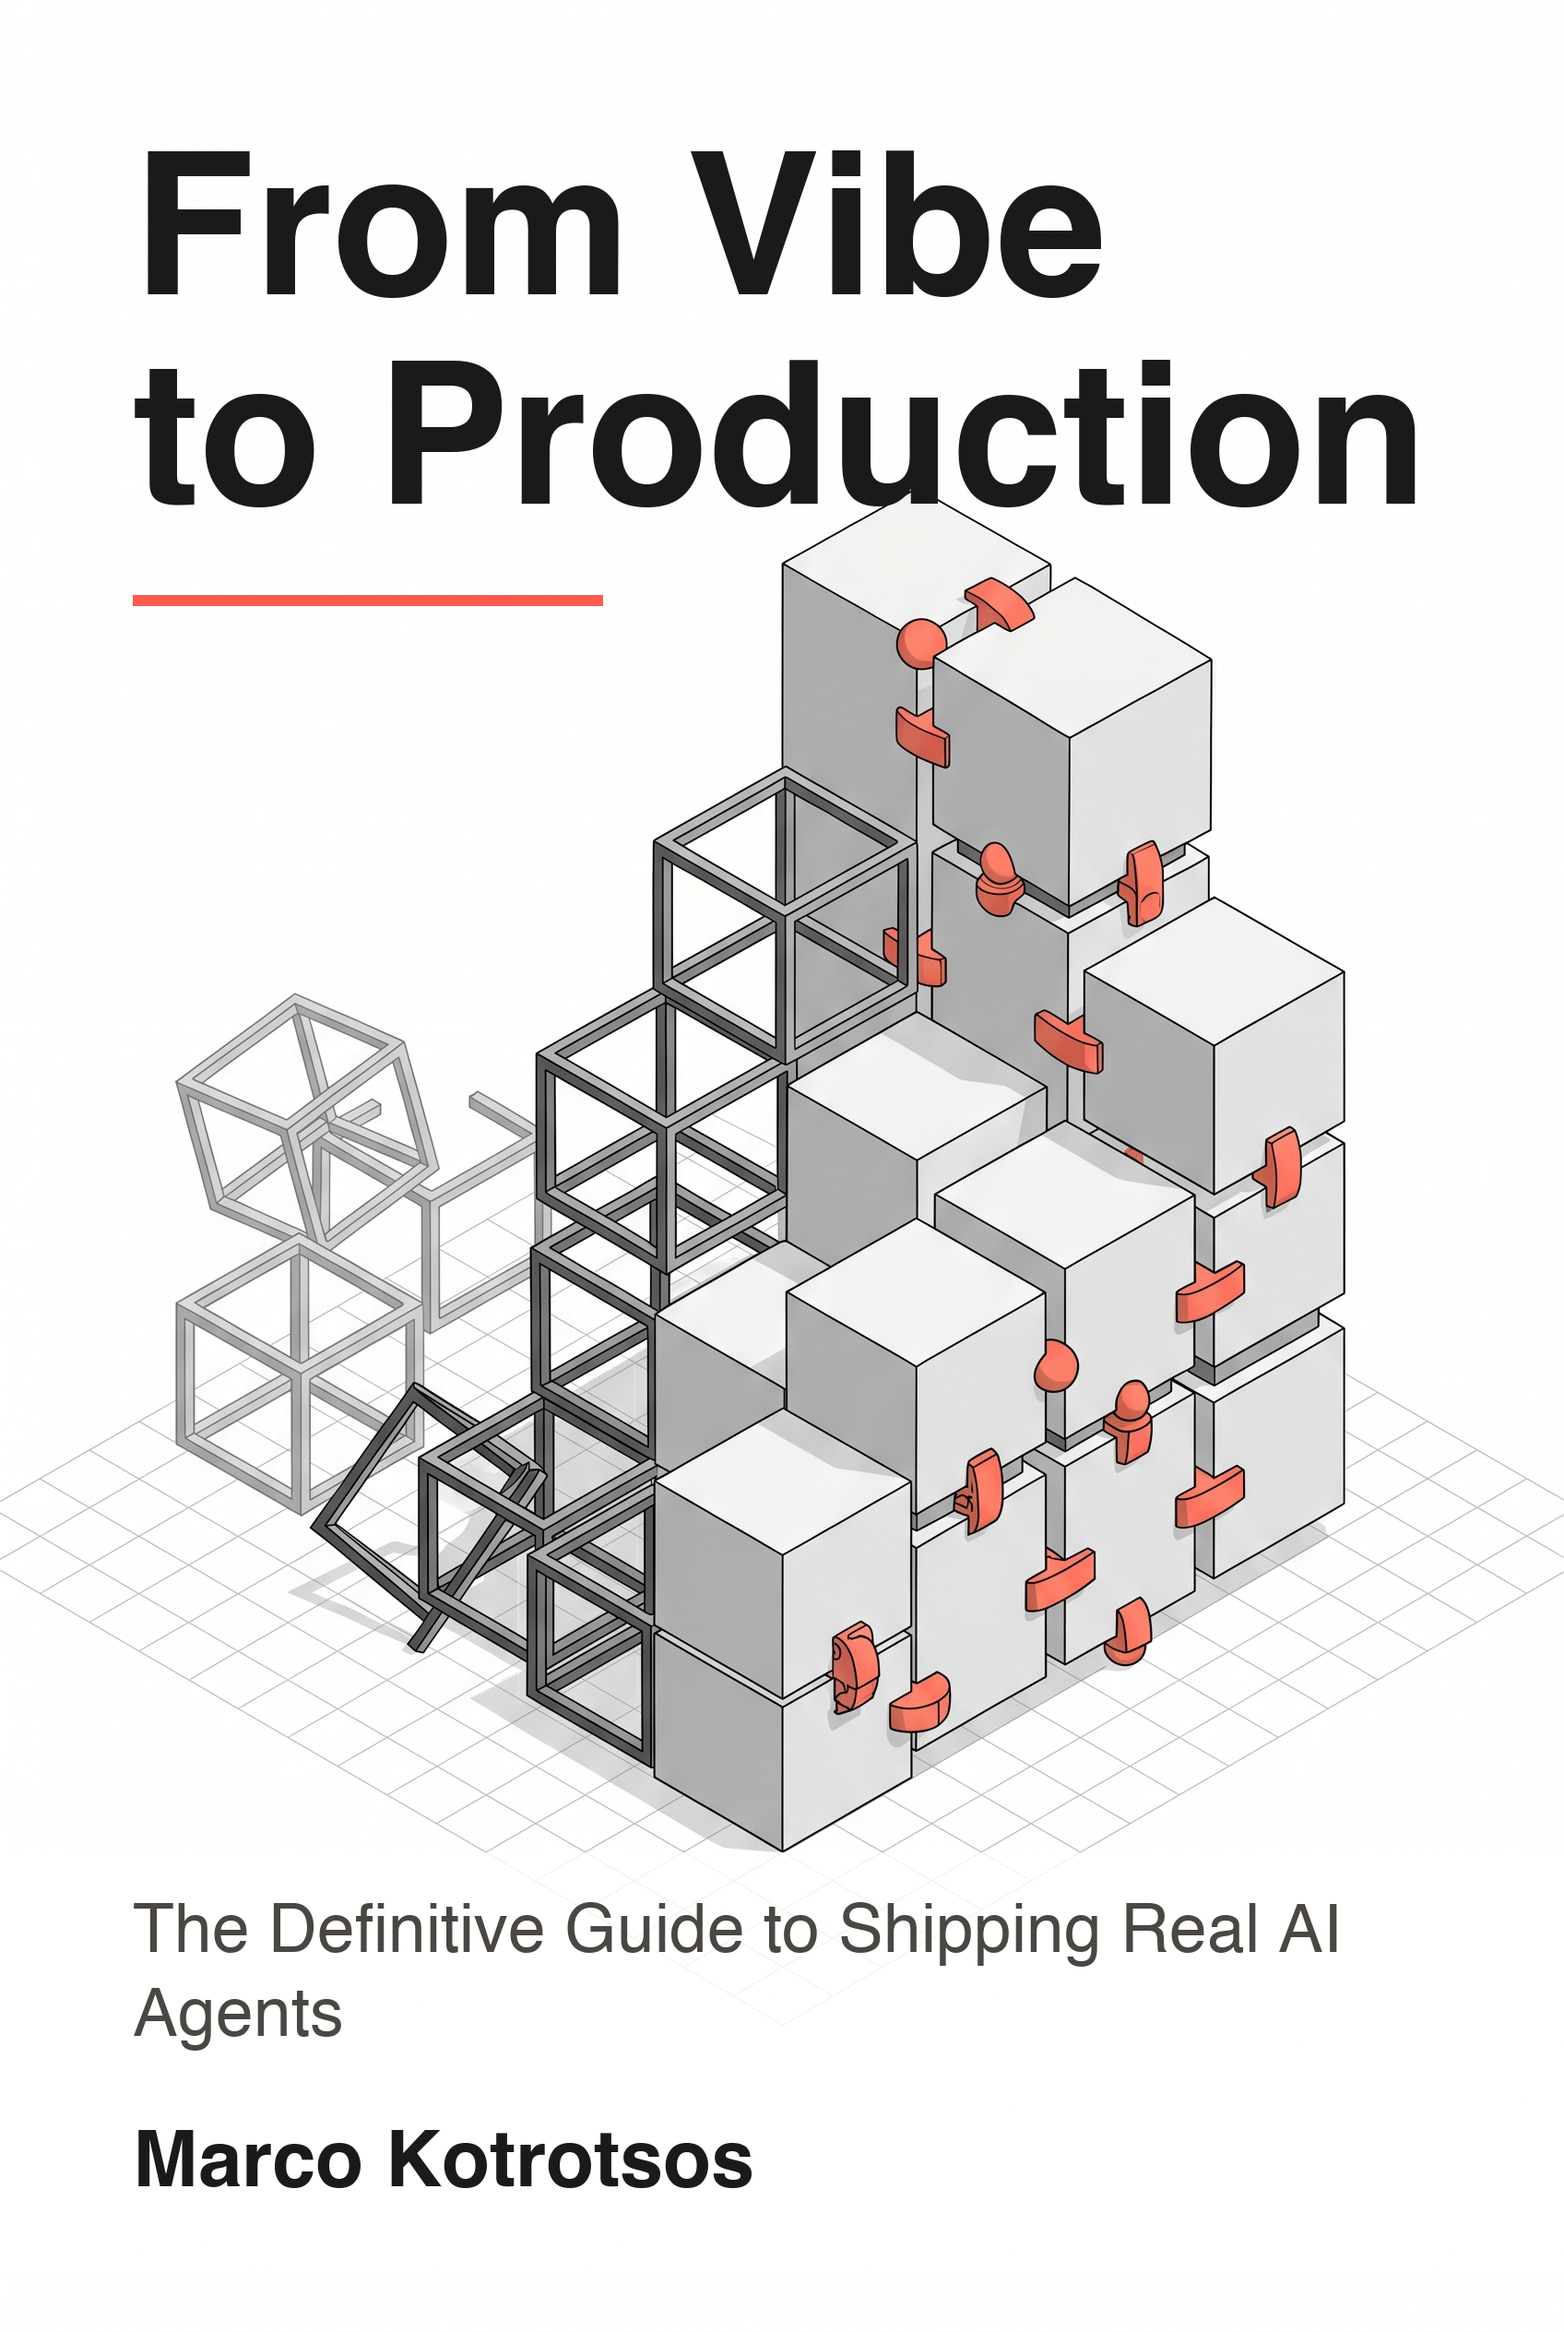
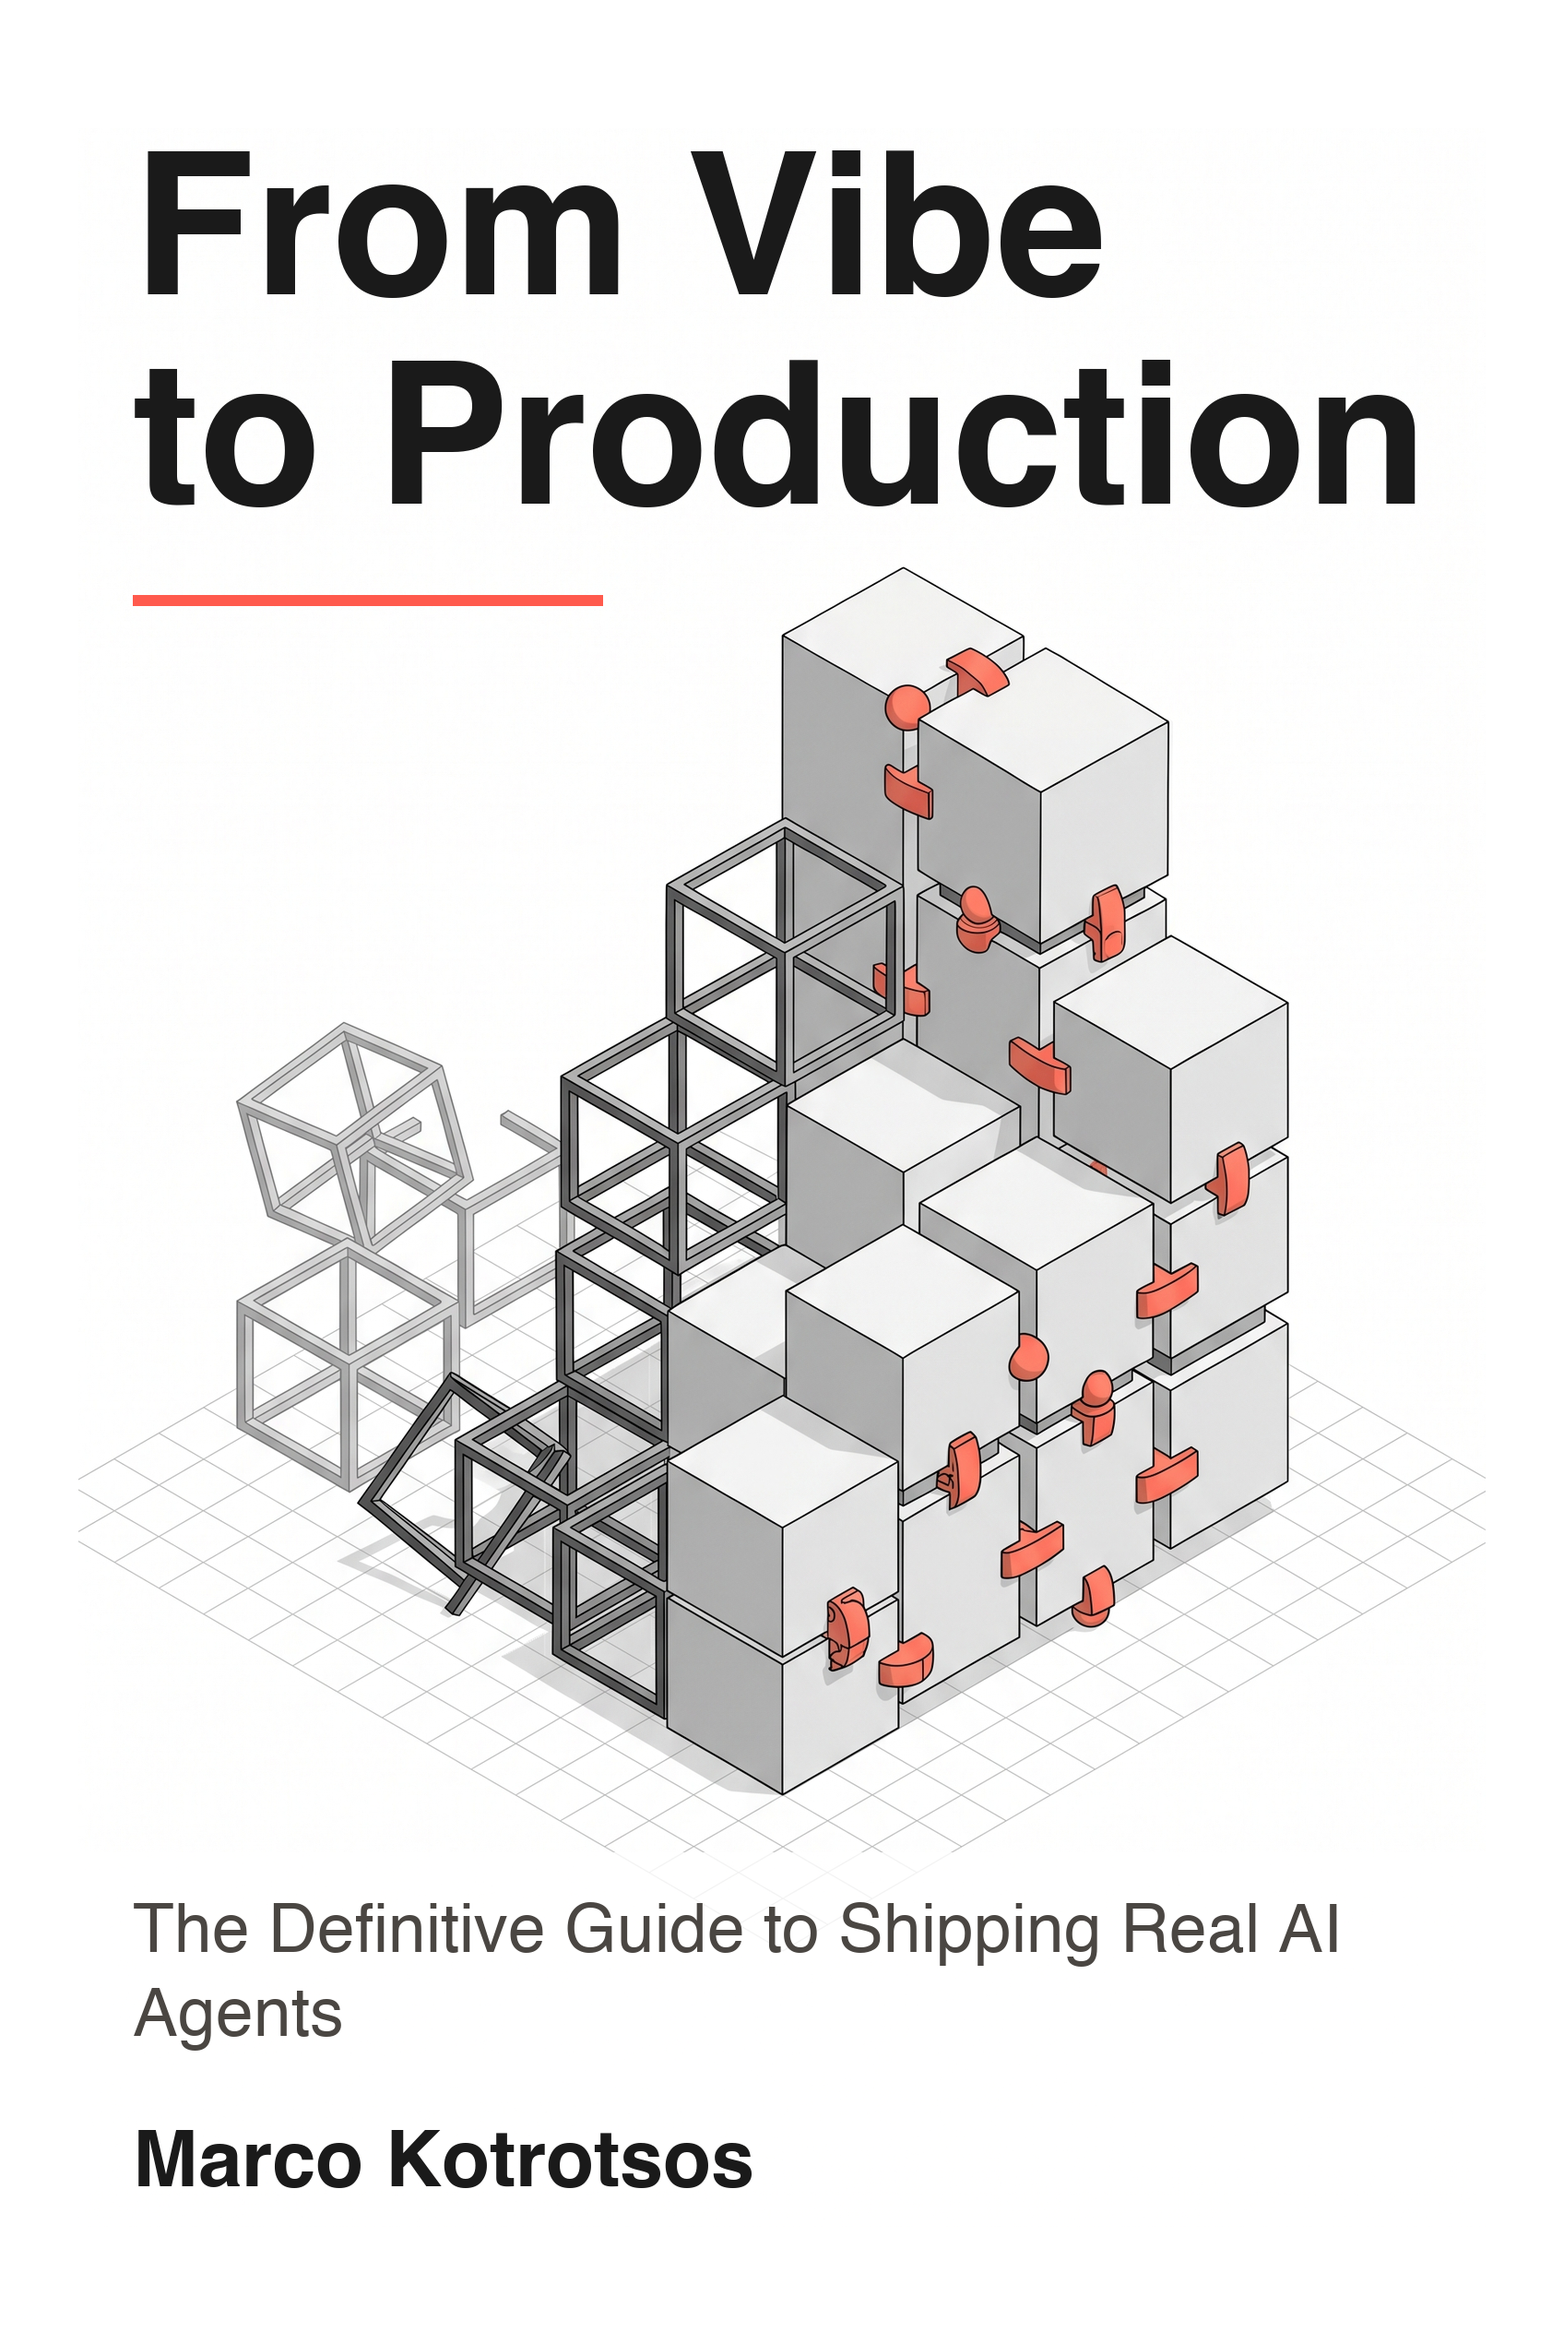
Archive cover-titled.png from definitive-book: Titled front cover, illustration scaled for title clearance

Changed region(s): [[0.0625, 0.2188, 0.9375, 0.8125]]

diff --git a/projects/definitive-book/INDEX.md b/projects/definitive-book/INDEX.md
@@ -12,3 +12,4 @@
 | 2026-05-27 | docs | [from-vibe-to-production-fullwrap-6x9.pdf](docs/from-vibe-to-production-fullwrap-6x9.pdf) | Paperback full-wrap cover with title on front spine and back | /Users/marcokotrotsos/PERSONAL/Content/drafts/definitive-book/book/output/from-vibe-to-production-fullwrap-6x9.pdf |
 | 2026-05-27 | other | [from-vibe-to-production.epub](other/from-vibe-to-production.epub) | EPUB3 eBook with titled cover | /Users/marcokotrotsos/PERSONAL/Content/drafts/definitive-book/book/output/from-vibe-to-production.epub |
 | 2026-05-27 | images | [cover-titled.png](images/cover-titled.png) | Titled front cover art | /Users/marcokotrotsos/PERSONAL/Content/drafts/definitive-book/book/images/cover-titled.png |
+| 2026-05-27 | images | [cover-titled.png](images/cover-titled.png) | Titled front cover, illustration scaled for title clearance | /Users/marcokotrotsos/PERSONAL/Content/drafts/definitive-book/book/images/cover-titled.png |

diff --git a/INDEX.md b/INDEX.md
@@ -262,3 +262,4 @@
 | 2026-05-27 | definitive-book | docs | [from-vibe-to-production-fullwrap-6x9.pdf](projects/definitive-book/docs/from-vibe-to-production-fullwrap-6x9.pdf) | Paperback full-wrap cover with title on front spine and back |
 | 2026-05-27 | definitive-book | other | [from-vibe-to-production.epub](projects/definitive-book/other/from-vibe-to-production.epub) | EPUB3 eBook with titled cover |
 | 2026-05-27 | definitive-book | images | [cover-titled.png](projects/definitive-book/images/cover-titled.png) | Titled front cover art |
+| 2026-05-27 | definitive-book | images | [cover-titled.png](projects/definitive-book/images/cover-titled.png) | Titled front cover, illustration scaled for title clearance |
